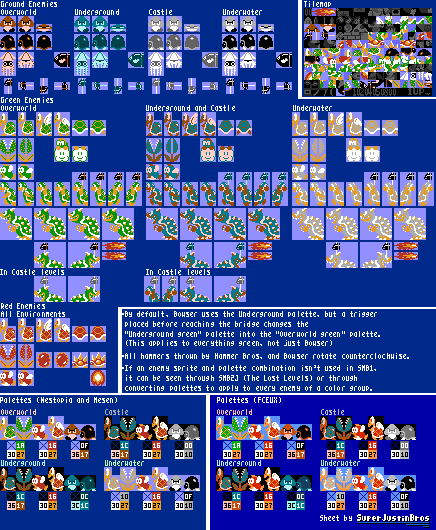
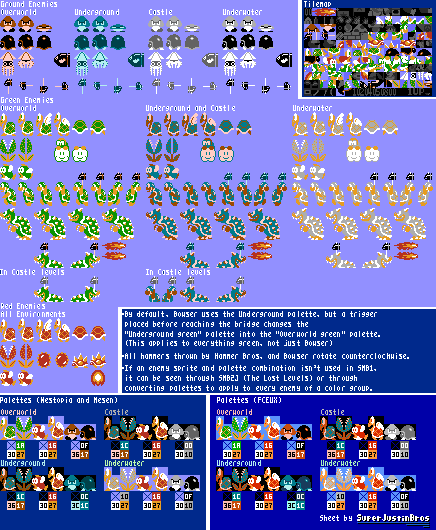
Added a lot of stuff, tried my hand at a command system, added a tileset, and fixed a bunch of sprite stuff, the keyboard controller is all different using the commands, pretty clean compared to before. Added a reset on R and quit on Q. Big stuff, getting close to being done with sprint2 guys!

Changed region(s): [[0.0, 0.0, 1.0, 0.7547]]

diff --git a/Controllers/KeyboardController.cs b/Controllers/KeyboardController.cs
@@ -1,4 +1,3 @@
-using System;
 using System.Collections.Generic;
 using Microsoft.Xna.Framework;
 using Microsoft.Xna.Framework.Input;
@@ -7,27 +6,25 @@ using Monogame;
 public class KeyboardController : IController
 {
     private IPlayer player;
-    private Dictionary<Keys, Action> pressActions;
+    private Dictionary<Keys, ICommand> pressCommands;
     private KeyboardState previousState;
 
     public KeyboardController(Game1 game, IPlayer player, IItem item, IBlock block, EnemyCycler enemies)
     {
         this.player = player;
 
-        // Keys that trigger once per press
-        pressActions = new Dictionary<Keys, Action>
+        pressCommands = new Dictionary<Keys, ICommand>
         {
-            { Keys.T, block.prevSprite },
-            { Keys.Y, block.nextSprite },
-            { Keys.U, item.prevSprite },
-            { Keys.I, item.nextSprite },
-            { Keys.O, enemies.Previous },
-            { Keys.P, enemies.Next },
-            { Keys.Q, game.Exit },
-            { Keys.R, game.ResetGame },
+            { Keys.T, new PreviousBlockCommand(block) },
+            { Keys.Y, new NextBlockCommand(block) },
+            { Keys.U, new PreviousItemCommand(item) },
+            { Keys.I, new NextItemCommand(item) },
+            { Keys.O, new PreviousEnemyCommand(enemies) },
+            { Keys.P, new NextEnemyCommand(enemies) },
+            { Keys.Q, new QuitCommand(game) },
+            { Keys.R, new ResetCommand(game) },
         };
 
-        // Start from the real keyboard state so a key held during reset isn't treated as a new press
         previousState = Keyboard.GetState();
     }
 
@@ -37,35 +34,44 @@ public class KeyboardController : IController
 
         UpdateMovement(keyboardState);
 
-        foreach (KeyValuePair<Keys, Action> pressAction in pressActions)
+        foreach (KeyValuePair<Keys, ICommand> pressCommand in pressCommands)
         {
-            if (keyboardState.IsKeyDown(pressAction.Key) && previousState.IsKeyUp(pressAction.Key))
+            if (keyboardState.IsKeyDown(pressCommand.Key) && previousState.IsKeyUp(pressCommand.Key))
             {
-                pressAction.Value();
+                pressCommand.Value.Execute();
             }
         }
 
         previousState = keyboardState;
     }
 
-    // Keys that act every frame while held
     private void UpdateMovement(KeyboardState keyboardState)
     {
         bool left = keyboardState.IsKeyDown(Keys.Left) || keyboardState.IsKeyDown(Keys.A);
         bool right = keyboardState.IsKeyDown(Keys.Right) || keyboardState.IsKeyDown(Keys.D);
         bool dash = keyboardState.IsKeyDown(Keys.Space);
 
-        if (left == right) // neither or both pressed
+        if (left == right)
         {
             player.StopMoving();
         }
         else if (left)
         {
-            if (dash) player.DashLeft(); else player.MoveLeft();
+            if (dash)
+            {
+                player.DashLeft();
+            } else {
+                player.MoveLeft();
+            }
         }
         else
         {
-            if (dash) player.DashRight(); else player.MoveRight();
+            if (dash)
+            {
+                player.DashRight();
+            } else {
+                player.MoveRight();
+            }
         }
 
         if (keyboardState.IsKeyDown(Keys.Up) || keyboardState.IsKeyDown(Keys.W))

diff --git a/Sprites/spriteFactory.cs b/Sprites/spriteFactory.cs
@@ -11,6 +11,7 @@ public class SpriteFactory
     private Texture2D itemTexture;
     private Texture2D blockTexture;
     private Texture2D enemyTexture;
+    private Texture2D tileSet;
 
     public void LoadTextures(ContentManager content)
     {
@@ -18,6 +19,7 @@ public class SpriteFactory
         itemTexture = content.Load<Texture2D>("itemsAndBlocks");
         blockTexture = content.Load<Texture2D>("itemsAndBlocks");
         enemyTexture = content.Load<Texture2D>("enemies");
+        tileSet = content.Load<Texture2D>("tileset");
     }
 
     public List<ISprite> CreateItemSprites()
@@ -73,11 +75,31 @@ public class SpriteFactory
     {
         return new List<ISprite>
         {
-            new StaticSprite(blockTexture, new Rectangle(328, 128, 16, 16)),   // brick
-            new StaticSprite(blockTexture, new Rectangle(180, 7, 16, 16)),  // question block
+            new StaticSprite(tileSet, new Rectangle(17, 16, 16, 16)),   // brick
+            CreateQuestionBlockSprites(), // Question block animated
             new StaticSprite(blockTexture, new Rectangle(180, 116, 16, 16)),  // blue brick
             new StaticSprite(blockTexture, new Rectangle(180, 332, 16, 16)),  // grey block
+            new StaticSprite(tileSet, new Rectangle(0, 16, 16, 16)),  // Ground block
+            new StaticSprite(tileSet, new Rectangle(349, 78, 16, 16)),  // :Hit: question block
         };
+    }
+
+    public ISprite CreateQuestionBlockSprites()
+    {
+        AnimationController qBlock = new AnimationController(tileSet, Vector2.Zero, 3f);
+
+        qBlock.AddClip(new Track(
+            "Spin",
+            [
+                new Rectangle(298, 78, 16, 16),
+                new Rectangle(315, 78, 16, 16),
+                new Rectangle(332, 78, 16, 16),
+            ],
+            [0.15f, 0.15f, 0.15f],
+            true));
+        qBlock.Play("Spin");
+
+        return qBlock;
     }
 
     public ISprite CreatePlayerSprite()

diff --git a/Commands/PreviousEnemyCommand.cs b/Commands/PreviousEnemyCommand.cs
@@ -1,0 +1,14 @@
+public class PreviousEnemyCommand : ICommand
+{
+    private EnemyCycler enemies;
+
+    public PreviousEnemyCommand(EnemyCycler enemies)
+    {
+        this.enemies = enemies;
+    }
+
+    public void Execute()
+    {
+        enemies.Previous();
+    }
+}

diff --git a/Commands/NextEnemyCommand.cs b/Commands/NextEnemyCommand.cs
@@ -1,0 +1,14 @@
+public class NextEnemyCommand : ICommand
+{
+    private EnemyCycler enemies;
+
+    public NextEnemyCommand(EnemyCycler enemies)
+    {
+        this.enemies = enemies;
+    }
+
+    public void Execute()
+    {
+        enemies.Next();
+    }
+}

diff --git a/Commands/PreviousBlockCommand.cs b/Commands/PreviousBlockCommand.cs
@@ -1,0 +1,14 @@
+public class PreviousBlockCommand : ICommand
+{
+    private IBlock block;
+
+    public PreviousBlockCommand(IBlock block)
+    {
+        this.block = block;
+    }
+
+    public void Execute()
+    {
+        block.prevSprite();
+    }
+}

diff --git a/Commands/ResetCommand.cs b/Commands/ResetCommand.cs
@@ -1,0 +1,16 @@
+using Monogame;
+
+public class ResetCommand : ICommand
+{
+    private Game1 game;
+
+    public ResetCommand(Game1 game)
+    {
+        this.game = game;
+    }
+
+    public void Execute()
+    {
+        game.ResetGame();
+    }
+}

diff --git a/Commands/NextBlockCommand.cs b/Commands/NextBlockCommand.cs
@@ -1,0 +1,14 @@
+public class NextBlockCommand : ICommand
+{
+    private IBlock block;
+
+    public NextBlockCommand(IBlock block)
+    {
+        this.block = block;
+    }
+
+    public void Execute()
+    {
+        block.nextSprite();
+    }
+}

diff --git a/Commands/PreviousItemCommand.cs b/Commands/PreviousItemCommand.cs
@@ -1,0 +1,14 @@
+public class PreviousItemCommand : ICommand
+{
+    private IItem item;
+
+    public PreviousItemCommand(IItem item)
+    {
+        this.item = item;
+    }
+
+    public void Execute()
+    {
+        item.prevSprite();
+    }
+}

diff --git a/Commands/QuitCommand.cs b/Commands/QuitCommand.cs
@@ -1,0 +1,16 @@
+using Monogame;
+
+public class QuitCommand : ICommand
+{
+    private Game1 game;
+
+    public QuitCommand(Game1 game)
+    {
+        this.game = game;
+    }
+
+    public void Execute()
+    {
+        game.Exit();
+    }
+}

diff --git a/Commands/NextItemCommand.cs b/Commands/NextItemCommand.cs
@@ -1,0 +1,14 @@
+public class NextItemCommand : ICommand
+{
+    private IItem item;
+
+    public NextItemCommand(IItem item)
+    {
+        this.item = item;
+    }
+
+    public void Execute()
+    {
+        item.nextSprite();
+    }
+}

diff --git a/Interfaces/ICommand.cs b/Interfaces/ICommand.cs
@@ -1,0 +1,4 @@
+public interface ICommand
+{
+    void Execute();
+}
